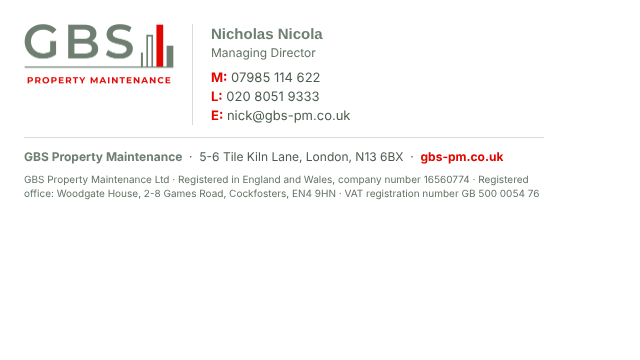
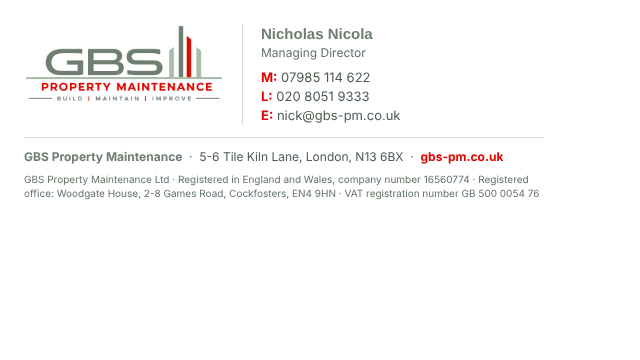
Email signature: primary lockup with strapline, one signature per person
The signature now loads the stacked primary logo (600 x 238 px, shown at
200 x 79 px) instead of the no-strap lockup; the website copies that file
to /assets/img/logo-email-600.png. build-signature.mjs compiles a personal
signature (HTML and plain text) for every entry in company.json people[],
a staff template with placeholders, and the shared-mailbox version. The
install guide covers adding staff and the hosted logo going live on merge.

Claude-Session: https://claude.ai/code/session_01WXk5ipzZdcYPbyMDbXcuv1

Changed region(s): [[0.0312, 0.0611, 0.625, 0.3361]]

diff --git a/gbs-brand/09_DIGITAL/email-signature/signature.html b/gbs-brand/09_DIGITAL/email-signature/signature.html
@@ -7,18 +7,18 @@
 <title>GBS_HORIZON_EMAIL-SIGNATURE</title>
 </head>
 <body style="margin:0;padding:0;">
-<!-- GBS HORIZON email signature v1.0. Table-based, all styles inline, no webfonts, one hosted image. Tokens are resolved by tools/render.mjs or build-signature.mjs. -->
+<!-- GBS HORIZON personal email signature v1.1. Table-based, all styles inline, no webfonts, one hosted image (primary lockup with strapline, 600 px served at 200 px). Person details come from company.json people[] or the staff template; compiled by build-signature.mjs. -->
 <table role="presentation" cellpadding="0" cellspacing="0" border="0" width="520" style="border-collapse:collapse;width:520px;max-width:520px;font-family:Inter,Arial,Helvetica,sans-serif;font-size:13px;line-height:19px;color:#4C5D50;">
   <tr>
-    <td width="150" valign="top" style="padding:0 18px 0 0;vertical-align:top;width:150px;">
-      <a href="{{company.url}}" style="text-decoration:none;border:0;"><img src="{{company.url}}/assets/img/logo-email-600.png" width="150" height="60" alt="{{company.tradingName}}" style="display:block;width:150px;height:60px;border:0;outline:none;text-decoration:none;"></a>
+    <td width="200" valign="top" style="padding:0 18px 0 0;vertical-align:top;width:200px;">
+      <a href="{{company.url}}" style="text-decoration:none;border:0;"><img src="{{company.url}}/assets/img/logo-email-600.png" width="200" height="79" alt="{{company.tradingName}} - BUILD | MAINTAIN | IMPROVE" style="display:block;width:200px;height:79px;border:0;outline:none;text-decoration:none;"></a>
     </td>
     <td valign="top" style="padding:0 0 0 18px;vertical-align:top;border-left:1px solid #DADADA;">
-      <div style="font-family:Montserrat,Arial,sans-serif;font-size:15px;line-height:20px;font-weight:bold;color:#6E7F72;">{{company.people.0.name}}</div>
-      <div style="font-family:Inter,Arial,Helvetica,sans-serif;font-size:12px;line-height:18px;color:#627365;padding:0 0 6px 0;">{{company.people.0.role}}</div>
-      <div style="font-family:Inter,Arial,Helvetica,sans-serif;font-size:13px;line-height:19px;"><span style="color:#E10600;font-weight:bold;">M:</span>&nbsp;<a href="tel:{{company.people.0.mobileTel}}" style="color:#4C5D50;text-decoration:none;">{{company.people.0.mobile}}</a></div>
+      <div style="font-family:Montserrat,Arial,sans-serif;font-size:15px;line-height:20px;font-weight:bold;color:#6E7F72;">{{person.name}}</div>
+      <div style="font-family:Inter,Arial,Helvetica,sans-serif;font-size:12px;line-height:18px;color:#627365;padding:0 0 6px 0;">{{person.role}}</div>
+      <div style="font-family:Inter,Arial,Helvetica,sans-serif;font-size:13px;line-height:19px;"><span style="color:#E10600;font-weight:bold;">M:</span>&nbsp;<a href="tel:{{person.mobileTel}}" style="color:#4C5D50;text-decoration:none;">{{person.mobile}}</a></div>
       <div style="font-family:Inter,Arial,Helvetica,sans-serif;font-size:13px;line-height:19px;"><span style="color:#E10600;font-weight:bold;">L:</span>&nbsp;<a href="tel:{{company.phoneTel}}" style="color:#4C5D50;text-decoration:none;">{{company.phone}}</a></div>
-      <div style="font-family:Inter,Arial,Helvetica,sans-serif;font-size:13px;line-height:19px;"><span style="color:#E10600;font-weight:bold;">E:</span>&nbsp;<a href="mailto:{{company.people.0.email}}" style="color:#4C5D50;text-decoration:none;">{{company.people.0.email}}</a></div>
+      <div style="font-family:Inter,Arial,Helvetica,sans-serif;font-size:13px;line-height:19px;"><span style="color:#E10600;font-weight:bold;">E:</span>&nbsp;<a href="mailto:{{person.email}}" style="color:#4C5D50;text-decoration:none;">{{person.email}}</a></div>
     </td>
   </tr>
   <tr>

diff --git a/gbs-brand/09_DIGITAL/email-signature/signature-staff-template.compiled.html b/gbs-brand/09_DIGITAL/email-signature/signature-staff-template.compiled.html
@@ -7,18 +7,18 @@
 <title>GBS_HORIZON_EMAIL-SIGNATURE</title>
 </head>
 <body style="margin:0;padding:0;">
-<!-- GBS HORIZON email signature v1.0. Table-based, all styles inline, no webfonts, one hosted image. Tokens are resolved by tools/render.mjs or build-signature.mjs. -->
+<!-- GBS HORIZON personal email signature v1.1. Table-based, all styles inline, no webfonts, one hosted image (primary lockup with strapline, 600 px served at 200 px). Person details come from company.json people[] or the staff template; compiled by build-signature.mjs. -->
 <table role="presentation" cellpadding="0" cellspacing="0" border="0" width="520" style="border-collapse:collapse;width:520px;max-width:520px;font-family:Inter,Arial,Helvetica,sans-serif;font-size:13px;line-height:19px;color:#4C5D50;">
   <tr>
-    <td width="150" valign="top" style="padding:0 18px 0 0;vertical-align:top;width:150px;">
-      <a href="https://gbs-pm.co.uk" style="text-decoration:none;border:0;"><img src="https://gbs-pm.co.uk/assets/img/logo-email-600.png" width="150" height="60" alt="GBS Property Maintenance" style="display:block;width:150px;height:60px;border:0;outline:none;text-decoration:none;"></a>
+    <td width="200" valign="top" style="padding:0 18px 0 0;vertical-align:top;width:200px;">
+      <a href="https://gbs-pm.co.uk" style="text-decoration:none;border:0;"><img src="https://gbs-pm.co.uk/assets/img/logo-email-600.png" width="200" height="79" alt="GBS Property Maintenance - BUILD | MAINTAIN | IMPROVE" style="display:block;width:200px;height:79px;border:0;outline:none;text-decoration:none;"></a>
     </td>
     <td valign="top" style="padding:0 0 0 18px;vertical-align:top;border-left:1px solid #DADADA;">
-      <div style="font-family:Montserrat,Arial,sans-serif;font-size:15px;line-height:20px;font-weight:bold;color:#6E7F72;">Nicholas Nicola</div>
-      <div style="font-family:Inter,Arial,Helvetica,sans-serif;font-size:12px;line-height:18px;color:#627365;padding:0 0 6px 0;">Managing Director</div>
-      <div style="font-family:Inter,Arial,Helvetica,sans-serif;font-size:13px;line-height:19px;"><span style="color:#E10600;font-weight:bold;">M:</span>&nbsp;<a href="tel:+447985114622" style="color:#4C5D50;text-decoration:none;">07985 114 622</a></div>
+      <div style="font-family:Montserrat,Arial,sans-serif;font-size:15px;line-height:20px;font-weight:bold;color:#6E7F72;">FIRST LAST</div>
+      <div style="font-family:Inter,Arial,Helvetica,sans-serif;font-size:12px;line-height:18px;color:#627365;padding:0 0 6px 0;">JOB TITLE</div>
+      <div style="font-family:Inter,Arial,Helvetica,sans-serif;font-size:13px;line-height:19px;"><span style="color:#E10600;font-weight:bold;">M:</span>&nbsp;<a href="tel:+447xxxxxxxxx" style="color:#4C5D50;text-decoration:none;">07xxx xxxxxx</a></div>
       <div style="font-family:Inter,Arial,Helvetica,sans-serif;font-size:13px;line-height:19px;"><span style="color:#E10600;font-weight:bold;">L:</span>&nbsp;<a href="tel:+442080519333" style="color:#4C5D50;text-decoration:none;">020 8051 9333</a></div>
-      <div style="font-family:Inter,Arial,Helvetica,sans-serif;font-size:13px;line-height:19px;"><span style="color:#E10600;font-weight:bold;">E:</span>&nbsp;<a href="mailto:nick@gbs-pm.co.uk" style="color:#4C5D50;text-decoration:none;">nick@gbs-pm.co.uk</a></div>
+      <div style="font-family:Inter,Arial,Helvetica,sans-serif;font-size:13px;line-height:19px;"><span style="color:#E10600;font-weight:bold;">E:</span>&nbsp;<a href="mailto:first.last@gbs-pm.co.uk" style="color:#4C5D50;text-decoration:none;">first.last@gbs-pm.co.uk</a></div>
     </td>
   </tr>
   <tr>

diff --git a/gbs-brand/09_DIGITAL/email-signature/signature-nicholas-nicola.compiled.html b/gbs-brand/09_DIGITAL/email-signature/signature-nicholas-nicola.compiled.html
@@ -1,0 +1,41 @@
+<!doctype html>
+<html lang="en-GB">
+<head>
+<meta charset="utf-8">
+<meta name="viewport" content="width=device-width">
+<meta name="color-scheme" content="light">
+<title>GBS_HORIZON_EMAIL-SIGNATURE</title>
+</head>
+<body style="margin:0;padding:0;">
+<!-- GBS HORIZON personal email signature v1.1. Table-based, all styles inline, no webfonts, one hosted image (primary lockup with strapline, 600 px served at 200 px). Person details come from company.json people[] or the staff template; compiled by build-signature.mjs. -->
+<table role="presentation" cellpadding="0" cellspacing="0" border="0" width="520" style="border-collapse:collapse;width:520px;max-width:520px;font-family:Inter,Arial,Helvetica,sans-serif;font-size:13px;line-height:19px;color:#4C5D50;">
+  <tr>
+    <td width="200" valign="top" style="padding:0 18px 0 0;vertical-align:top;width:200px;">
+      <a href="https://gbs-pm.co.uk" style="text-decoration:none;border:0;"><img src="https://gbs-pm.co.uk/assets/img/logo-email-600.png" width="200" height="79" alt="GBS Property Maintenance - BUILD | MAINTAIN | IMPROVE" style="display:block;width:200px;height:79px;border:0;outline:none;text-decoration:none;"></a>
+    </td>
+    <td valign="top" style="padding:0 0 0 18px;vertical-align:top;border-left:1px solid #DADADA;">
+      <div style="font-family:Montserrat,Arial,sans-serif;font-size:15px;line-height:20px;font-weight:bold;color:#6E7F72;">Nicholas Nicola</div>
+      <div style="font-family:Inter,Arial,Helvetica,sans-serif;font-size:12px;line-height:18px;color:#627365;padding:0 0 6px 0;">Managing Director</div>
+      <div style="font-family:Inter,Arial,Helvetica,sans-serif;font-size:13px;line-height:19px;"><span style="color:#E10600;font-weight:bold;">M:</span>&nbsp;<a href="tel:+447985114622" style="color:#4C5D50;text-decoration:none;">07985 114 622</a></div>
+      <div style="font-family:Inter,Arial,Helvetica,sans-serif;font-size:13px;line-height:19px;"><span style="color:#E10600;font-weight:bold;">L:</span>&nbsp;<a href="tel:+442080519333" style="color:#4C5D50;text-decoration:none;">020 8051 9333</a></div>
+      <div style="font-family:Inter,Arial,Helvetica,sans-serif;font-size:13px;line-height:19px;"><span style="color:#E10600;font-weight:bold;">E:</span>&nbsp;<a href="mailto:nick@gbs-pm.co.uk" style="color:#4C5D50;text-decoration:none;">nick@gbs-pm.co.uk</a></div>
+    </td>
+  </tr>
+  <tr>
+    <td colspan="2" style="padding:12px 0 0 0;"><div style="height:1px;line-height:1px;font-size:1px;background:#DADADA;">&nbsp;</div></td>
+  </tr>
+  <tr>
+    <td colspan="2" style="padding:10px 0 0 0;font-family:Inter,Arial,Helvetica,sans-serif;font-size:12px;line-height:18px;color:#4C5D50;">
+      <span style="font-family:Inter,Arial,Helvetica,sans-serif;font-weight:bold;color:#6E7F72;">GBS Property Maintenance</span>
+      &nbsp;&middot;&nbsp; 5-6 Tile Kiln Lane, London, N13 6BX
+      &nbsp;&middot;&nbsp; <a href="https://gbs-pm.co.uk" style="color:#E10600;font-weight:bold;text-decoration:none;">gbs-pm.co.uk</a>
+    </td>
+  </tr>
+  <tr>
+    <td colspan="2" style="padding:6px 0 0 0;font-family:Inter,Arial,Helvetica,sans-serif;font-size:10px;line-height:14px;color:#627365;">
+      GBS Property Maintenance Ltd &middot; Registered in England and Wales, company number 16560774 &middot; Registered office: Woodgate House, 2-8 Games Road, Cockfosters, EN4 9HN &middot; VAT registration number GB 500 0054 76
+    </td>
+  </tr>
+</table>
+</body>
+</html>

diff --git a/gbs-brand/09_DIGITAL/email-signature/signature.preview.html b/gbs-brand/09_DIGITAL/email-signature/signature.preview.html
@@ -7,11 +7,11 @@
 <title>GBS_HORIZON_EMAIL-SIGNATURE</title>
 </head>
 <body style="margin:0;padding:24px;background:#ffffff;">
-<!-- GBS HORIZON email signature v1.0. Table-based, all styles inline, no webfonts, one hosted image. Tokens are resolved by tools/render.mjs or build-signature.mjs. -->
+<!-- GBS HORIZON personal email signature v1.1. Table-based, all styles inline, no webfonts, one hosted image (primary lockup with strapline, 600 px served at 200 px). Person details come from company.json people[] or the staff template; compiled by build-signature.mjs. -->
 <table role="presentation" cellpadding="0" cellspacing="0" border="0" width="520" style="border-collapse:collapse;width:520px;max-width:520px;font-family:Inter,Arial,Helvetica,sans-serif;font-size:13px;line-height:19px;color:#4C5D50;">
   <tr>
-    <td width="150" valign="top" style="padding:0 18px 0 0;vertical-align:top;width:150px;">
-      <a href="https://gbs-pm.co.uk" style="text-decoration:none;border:0;"><img src="logo-email-600.png" width="150" height="60" alt="GBS Property Maintenance" style="display:block;width:150px;height:60px;border:0;outline:none;text-decoration:none;"></a>
+    <td width="200" valign="top" style="padding:0 18px 0 0;vertical-align:top;width:200px;">
+      <a href="https://gbs-pm.co.uk" style="text-decoration:none;border:0;"><img src="logo-email-600.png" width="200" height="79" alt="GBS Property Maintenance - BUILD | MAINTAIN | IMPROVE" style="display:block;width:200px;height:79px;border:0;outline:none;text-decoration:none;"></a>
     </td>
     <td valign="top" style="padding:0 0 0 18px;vertical-align:top;border-left:1px solid #DADADA;">
       <div style="font-family:Montserrat,Arial,sans-serif;font-size:15px;line-height:20px;font-weight:bold;color:#6E7F72;">Nicholas Nicola</div>

diff --git a/gbs-brand/09_DIGITAL/email-signature/signature-generic.compiled.html b/gbs-brand/09_DIGITAL/email-signature/signature-generic.compiled.html
@@ -10,8 +10,8 @@
 <!-- GBS HORIZON shared-mailbox email signature v1.0 (no named person). Table-based, all styles inline, no webfonts, one hosted image. -->
 <table role="presentation" cellpadding="0" cellspacing="0" border="0" width="520" style="border-collapse:collapse;width:520px;max-width:520px;font-family:Inter,Arial,Helvetica,sans-serif;font-size:13px;line-height:19px;color:#4C5D50;">
   <tr>
-    <td width="150" valign="top" style="padding:0 18px 0 0;vertical-align:top;width:150px;">
-      <a href="https://gbs-pm.co.uk" style="text-decoration:none;border:0;"><img src="https://gbs-pm.co.uk/assets/img/logo-email-600.png" width="150" height="60" alt="GBS Property Maintenance" style="display:block;width:150px;height:60px;border:0;outline:none;text-decoration:none;"></a>
+    <td width="200" valign="top" style="padding:0 18px 0 0;vertical-align:top;width:200px;">
+      <a href="https://gbs-pm.co.uk" style="text-decoration:none;border:0;"><img src="https://gbs-pm.co.uk/assets/img/logo-email-600.png" width="200" height="79" alt="GBS Property Maintenance - BUILD | MAINTAIN | IMPROVE" style="display:block;width:200px;height:79px;border:0;outline:none;text-decoration:none;"></a>
     </td>
     <td valign="top" style="padding:0 0 0 18px;vertical-align:top;border-left:1px solid #DADADA;">
       <div style="font-family:Montserrat,Arial,sans-serif;font-size:15px;line-height:20px;font-weight:bold;color:#6E7F72;">GBS Property Maintenance</div>

diff --git a/gbs-brand/09_DIGITAL/email-signature/signature-generic.html b/gbs-brand/09_DIGITAL/email-signature/signature-generic.html
@@ -10,8 +10,8 @@
 <!-- GBS HORIZON shared-mailbox email signature v1.0 (no named person). Table-based, all styles inline, no webfonts, one hosted image. -->
 <table role="presentation" cellpadding="0" cellspacing="0" border="0" width="520" style="border-collapse:collapse;width:520px;max-width:520px;font-family:Inter,Arial,Helvetica,sans-serif;font-size:13px;line-height:19px;color:#4C5D50;">
   <tr>
-    <td width="150" valign="top" style="padding:0 18px 0 0;vertical-align:top;width:150px;">
-      <a href="{{company.url}}" style="text-decoration:none;border:0;"><img src="{{company.url}}/assets/img/logo-email-600.png" width="150" height="60" alt="{{company.tradingName}}" style="display:block;width:150px;height:60px;border:0;outline:none;text-decoration:none;"></a>
+    <td width="200" valign="top" style="padding:0 18px 0 0;vertical-align:top;width:200px;">
+      <a href="{{company.url}}" style="text-decoration:none;border:0;"><img src="{{company.url}}/assets/img/logo-email-600.png" width="200" height="79" alt="{{company.tradingName}} - BUILD | MAINTAIN | IMPROVE" style="display:block;width:200px;height:79px;border:0;outline:none;text-decoration:none;"></a>
     </td>
     <td valign="top" style="padding:0 0 0 18px;vertical-align:top;border-left:1px solid #DADADA;">
       <div style="font-family:Montserrat,Arial,sans-serif;font-size:15px;line-height:20px;font-weight:bold;color:#6E7F72;">{{company.tradingName}}</div>

diff --git a/gbs-brand/09_DIGITAL/email-signature/INSTALL_GUIDE.md b/gbs-brand/09_DIGITAL/email-signature/INSTALL_GUIDE.md
@@ -1,23 +1,30 @@
-# GBS email signature - installation guide (v1.0)
+# GBS email signature - installation guide (v1.1)
 
 Files in this folder:
 
 | File | Use |
 |---|---|
-| `signature.compiled.html` | Personal signature with the details from `company.json` resolved. Install this one. |
+| `signature-<first>-<last>.compiled.html` | One personal signature per person listed in `company.json` under `people` (currently `signature-nicholas-nicola.compiled.html`). Install your own. |
 | `signature-generic.compiled.html` | Shared-mailbox version (info@, no named person). |
-| `signature.compiled.txt` | Plain-text version for text-only mail and ticketing systems. |
-| `signature.html`, `signature-generic.html`, `signature.txt` | Token sources. Do not install these; they still contain `{{company.*}}` placeholders. |
+| `signature-<first>-<last>.compiled.txt` | Plain-text version of each personal signature for text-only mail and ticketing systems. |
+| `signature-staff-template.compiled.html`, `.txt` | Signature with FIRST LAST, JOB TITLE, 07xxx xxxxxx and first.last@ placeholders for staff not yet listed in `company.json`. Edit the placeholders before installing, or add the person to `company.json` and rebuild (preferred). |
+| `signature.html`, `signature-generic.html`, `signature.txt` | Token sources. Do not install these; they still contain `{{company.*}}` and `{{person.*}}` placeholders. |
 | `build-signature.mjs` | Rebuilds the compiled files from `company.json` (`node 09_DIGITAL/email-signature/build-signature.mjs`). |
-| `logo-email-600.png` | The logo the signature loads. The website serves it at `https://gbs-pm.co.uk/assets/img/logo-email-600.png`. |
+| `logo-email-600.png` | The logo the signature loads: the primary lockup with strapline, 600 x 238 px, shown at 200 x 79 px. The website serves it at `https://gbs-pm.co.uk/assets/img/logo-email-600.png`. |
 | `signature.preview.html` | Review copy with the logo loaded from this folder instead of the website. Do not install it. |
 | `preview.png` / `preview-local.png` | Review renders only. `preview.png` shows the alt text where the hosted logo could not be fetched at render time; `preview-local.png` shows the layout with the logo. |
 
-For a second person, copy `signature.html` details or add them to `company.json` under `people` and rebuild.
+## Adding a member of staff
+
+1. Open `gbs-brand/company.json` and add the person to the `people` list, copying the existing entry: `name`, `role`, `email`, `mobile` (as it should read) and `mobileTel` (international form, digits only after the +).
+2. Run `node gbs-brand/09_DIGITAL/email-signature/build-signature.mjs`. It writes `signature-<first>-<last>.compiled.html` and `.txt` for every person listed.
+3. Send the person their two files and this guide. Only the first person listed is used elsewhere in the pack (letterhead, named business cards, quotation and invoice), so adding staff after the Managing Director changes nothing else.
+
+If a signature is needed before the person is added to `company.json`, open `signature-staff-template.compiled.html` in a text editor and replace FIRST LAST, JOB TITLE, the two mobile placeholders (`07xxx xxxxxx` and `+447xxxxxxxxx`) and `first.last@gbs-pm.co.uk`, then install it in the same way.
 
 ## Before you start: the hosted logo
 
-The signature does not embed the logo. It loads `https://gbs-pm.co.uk/assets/img/logo-email-600.png` from the website so every message stays small and the image never arrives as an attachment. Upload `logo-email-600.png` to that exact path on the web server before anyone installs the signature. If the path changes, rebuild the signature; do not re-insert the logo as a pasted picture.
+The signature does not embed the logo. It loads `https://gbs-pm.co.uk/assets/img/logo-email-600.png` from the website so every message stays small and the image never arrives as an attachment. The website build copies the logo to that path, so it goes live when the change is merged to `main` and Cloudflare redeploys; install signatures after that, otherwise the old logo shows until the deploy completes. If the path changes, rebuild the signature; do not re-insert the logo as a pasted picture.
 
 Some recipients will see a blank box or "download pictures" prompt until they allow images. This is normal for hosted images and is the trade-off for a clean, lightweight signature.
 
@@ -25,11 +32,11 @@ Some recipients will see a blank box or "download pictures" prompt until they al
 
 Mail clients want the rendered signature, not the source code.
 
-1. Open `signature.compiled.html` in a web browser (double-click it, or drag it into Chrome or Edge).
+1. Open your `signature-<first>-<last>.compiled.html` in a web browser (double-click it, or drag it into Chrome or Edge).
 2. Press Ctrl+A (Windows) or Cmd+A (Mac) to select everything, then Ctrl+C or Cmd+C to copy.
 3. Paste into the signature editor of your mail client as described below.
 
-If a client offers an "insert HTML" or "source" mode, you can instead open `signature.compiled.html` in a text editor, copy the text between `<body ...>` and `</body>`, and paste it there.
+If a client offers an "insert HTML" or "source" mode, you can instead open your `signature-<first>-<last>.compiled.html` in a text editor, copy the text between `<body ...>` and `</body>`, and paste it there.
 
 ## Outlook (classic desktop, Windows)
 
@@ -39,7 +46,7 @@ If a client offers an "insert HTML" or "source" mode, you can instead open `sign
 4. Under "Choose default signature", set it for New messages. For Replies/forwards you may also set it, or use the plain-text version to keep threads short.
 5. OK to save. Send a test message to yourself and to a Gmail address.
 
-If the pasted layout loses the vertical rule or spacing, Outlook has converted it to its own format. Close Outlook, open `%APPDATA%\Microsoft\Signatures\`, and replace the contents of `GBS.htm` with the contents of `signature.compiled.html`.
+If the pasted layout loses the vertical rule or spacing, Outlook has converted it to its own format. Close Outlook, open `%APPDATA%\Microsoft\Signatures\`, and replace the contents of `GBS.htm` with the contents of your `signature-<first>-<last>.compiled.html`.
 
 ## New Outlook (Windows), Outlook on the web and Outlook for Mac
 
@@ -68,7 +75,7 @@ Gmail trims signatures over about 10,000 characters. This one is about 3,300, so
 4. Paste the rendered signature from the browser into the right-hand box. The logo appears as a linked image.
 5. Close the window to save. In the Choose Signature menu, select `GBS` for the account.
 
-If pasting drops the layout, use the file method: create a dummy signature, quit Mail, find it in `~/Library/Mail/V10/MailData/Signatures/` (the version folder varies), open the newest `.mailsignature` file in a text editor, replace everything after the header lines with the contents of `signature.compiled.html`, lock the file (Get Info > Locked), and reopen Mail.
+If pasting drops the layout, use the file method: create a dummy signature, quit Mail, find it in `~/Library/Mail/V10/MailData/Signatures/` (the version folder varies), open the newest `.mailsignature` file in a text editor, replace everything after the header lines with the contents of your `signature-<first>-<last>.compiled.html`, lock the file (Get Info > Locked), and reopen Mail.
 
 ## iPhone and iPad
 

diff --git a/gbs-brand/INDEX.md b/gbs-brand/INDEX.md
@@ -1,6 +1,6 @@
 # Pack index
 
-Generated by `tools/build-index.mjs`. 327 files. Rendered outputs (PDF, PNG, Word) sit next to their HTML sources.
+Generated by `tools/build-index.mjs`. 329 files. Rendered outputs (PDF, PNG, Word) sit next to their HTML sources.
 
 ## (root)
 
@@ -215,18 +215,20 @@ Generated by `tools/build-index.mjs`. 327 files. Rendered outputs (PDF, PNG, Wor
 
 | File | Type | Size |
 |---|---|---|
-| [09_DIGITAL/email-signature/build-signature.mjs](09_DIGITAL/email-signature/build-signature.mjs) | Script | 2 KB |
-| [09_DIGITAL/email-signature/INSTALL_GUIDE.md](09_DIGITAL/email-signature/INSTALL_GUIDE.md) | Doc | 7 KB |
-| [09_DIGITAL/email-signature/logo-email-600.png](09_DIGITAL/email-signature/logo-email-600.png) | PNG | 39 KB |
-| [09_DIGITAL/email-signature/preview-local.png](09_DIGITAL/email-signature/preview-local.png) | PNG | 33 KB |
-| [09_DIGITAL/email-signature/preview.png](09_DIGITAL/email-signature/preview.png) | PNG | 33 KB |
+| [09_DIGITAL/email-signature/build-signature.mjs](09_DIGITAL/email-signature/build-signature.mjs) | Script | 3 KB |
+| [09_DIGITAL/email-signature/INSTALL_GUIDE.md](09_DIGITAL/email-signature/INSTALL_GUIDE.md) | Doc | 8 KB |
+| [09_DIGITAL/email-signature/logo-email-600.png](09_DIGITAL/email-signature/logo-email-600.png) | PNG | 24 KB |
+| [09_DIGITAL/email-signature/preview-local.png](09_DIGITAL/email-signature/preview-local.png) | PNG | 35 KB |
+| [09_DIGITAL/email-signature/preview.png](09_DIGITAL/email-signature/preview.png) | PNG | 35 KB |
 | [09_DIGITAL/email-signature/signature-generic.compiled.html](09_DIGITAL/email-signature/signature-generic.compiled.html) | HTML source | 3 KB |
 | [09_DIGITAL/email-signature/signature-generic.html](09_DIGITAL/email-signature/signature-generic.html) | HTML source | 3 KB |
-| [09_DIGITAL/email-signature/signature.compiled.html](09_DIGITAL/email-signature/signature.compiled.html) | HTML source | 3 KB |
-| [09_DIGITAL/email-signature/signature.compiled.txt](09_DIGITAL/email-signature/signature.compiled.txt) | Text | 439 B |
+| [09_DIGITAL/email-signature/signature-nicholas-nicola.compiled.html](09_DIGITAL/email-signature/signature-nicholas-nicola.compiled.html) | HTML source | 3 KB |
+| [09_DIGITAL/email-signature/signature-nicholas-nicola.compiled.txt](09_DIGITAL/email-signature/signature-nicholas-nicola.compiled.txt) | Text | 439 B |
+| [09_DIGITAL/email-signature/signature-staff-template.compiled.html](09_DIGITAL/email-signature/signature-staff-template.compiled.html) | HTML source | 3 KB |
+| [09_DIGITAL/email-signature/signature-staff-template.compiled.txt](09_DIGITAL/email-signature/signature-staff-template.compiled.txt) | Text | 431 B |
 | [09_DIGITAL/email-signature/signature.html](09_DIGITAL/email-signature/signature.html) | HTML source | 3 KB |
 | [09_DIGITAL/email-signature/signature.preview.html](09_DIGITAL/email-signature/signature.preview.html) | HTML source | 3 KB |
-| [09_DIGITAL/email-signature/signature.txt](09_DIGITAL/email-signature/signature.txt) | Text | 475 B |
+| [09_DIGITAL/email-signature/signature.txt](09_DIGITAL/email-signature/signature.txt) | Text | 435 B |
 | [09_DIGITAL/social/GBS_HORIZON_SOCIAL_LINKEDIN-BANNER_1584x396_v1.0.png](09_DIGITAL/social/GBS_HORIZON_SOCIAL_LINKEDIN-BANNER_1584x396_v1.0.png) | PNG | 61 KB |
 | [09_DIGITAL/social/GBS_HORIZON_SOCIAL_LINKEDIN-PROFILE_400x400_v1.0.png](09_DIGITAL/social/GBS_HORIZON_SOCIAL_LINKEDIN-PROFILE_400x400_v1.0.png) | PNG | 5 KB |
 | [09_DIGITAL/social/GBS_HORIZON_SOCIAL_OG-IMAGE_1200x630_v1.0.png](09_DIGITAL/social/GBS_HORIZON_SOCIAL_OG-IMAGE_1200x630_v1.0.png) | PNG | 27 KB |
